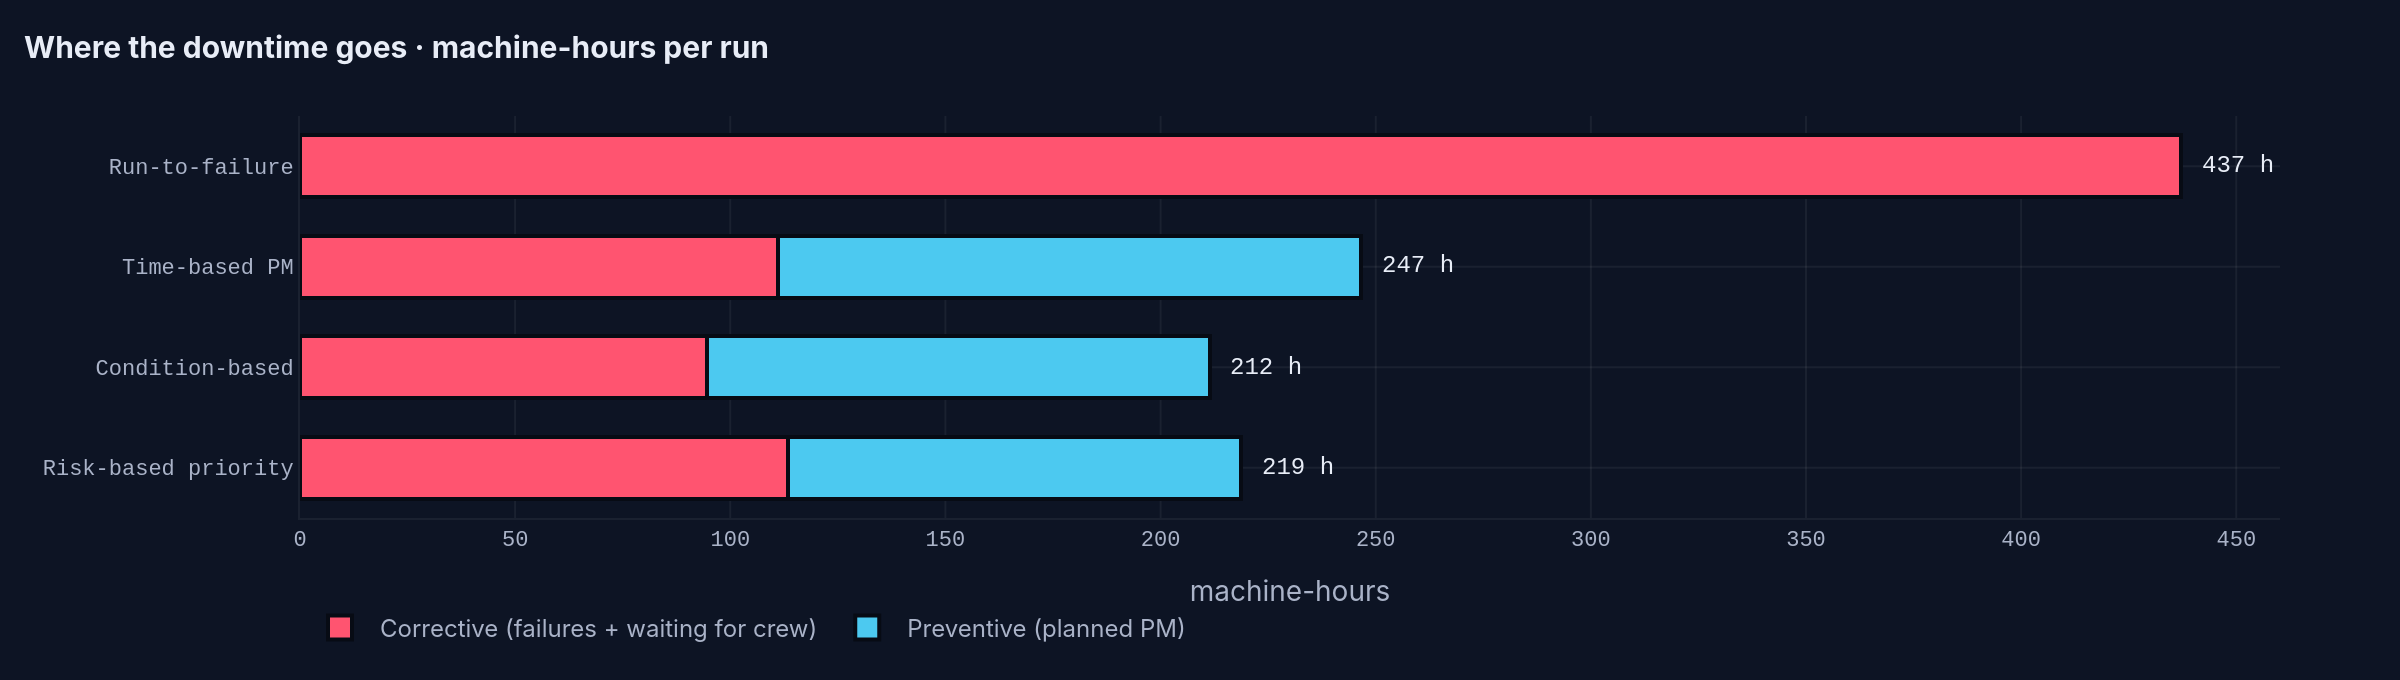
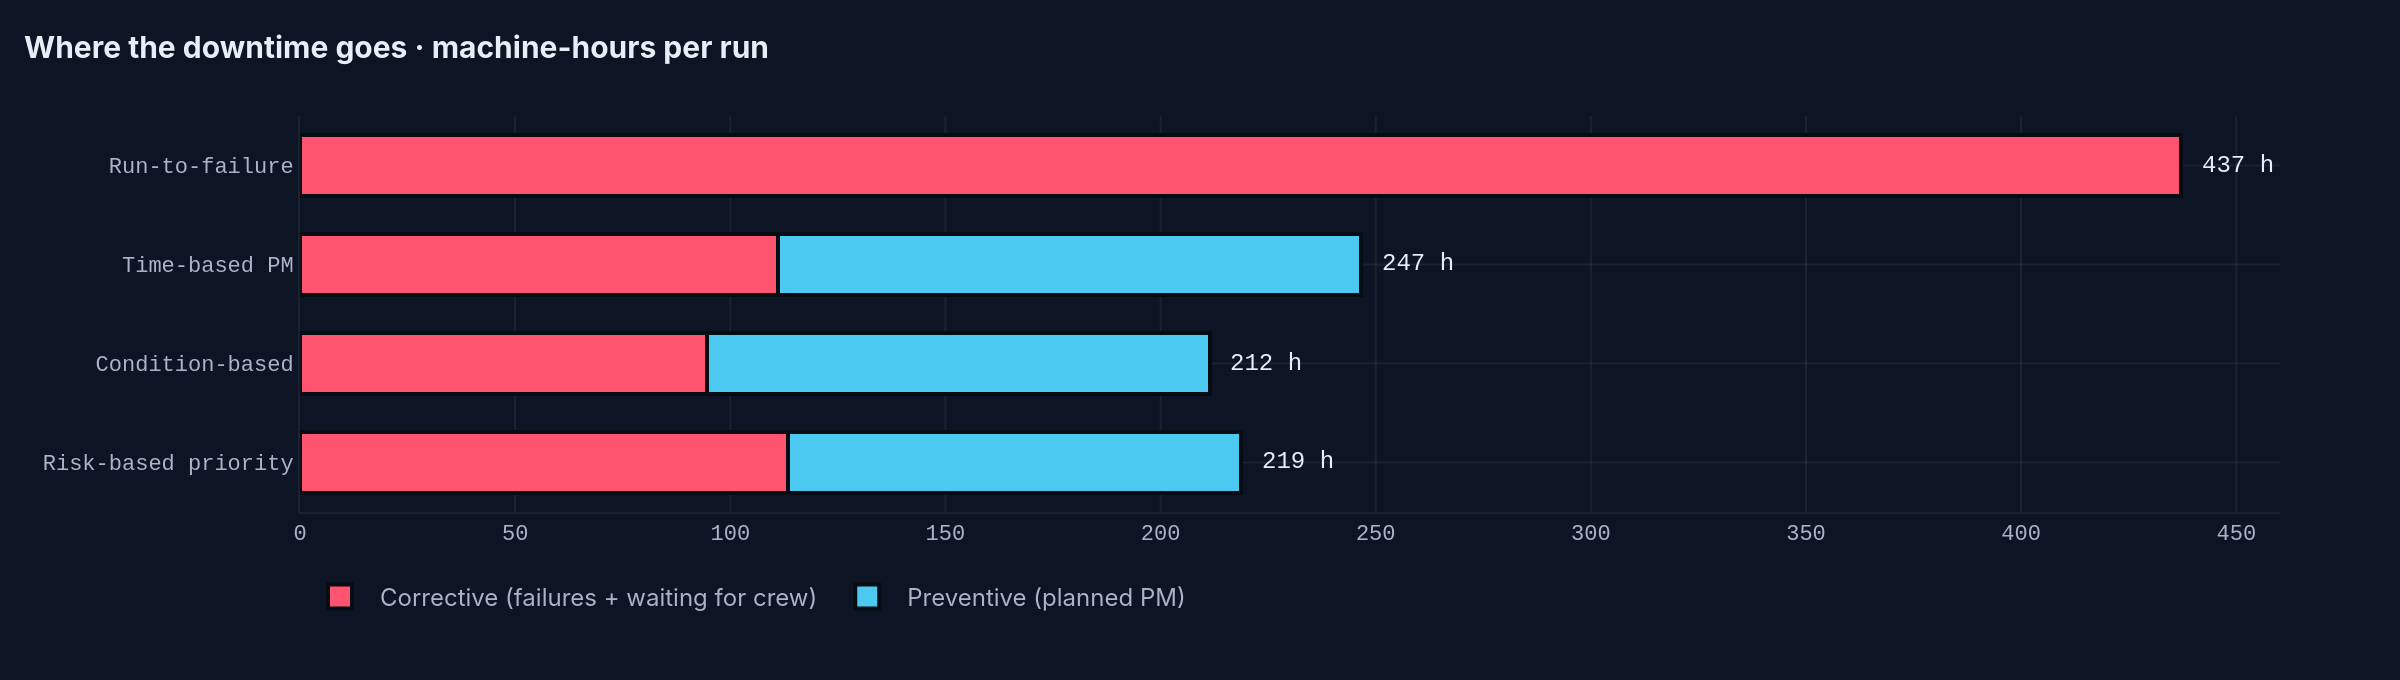
Fix UI issues found in a real browser
- remove "undefined" title on untitled charts (plotly.js renders None)
- put bar value labels inside the bars so CI whiskers no longer cover them
- downtime chart: move legend clear of the axis
- PM allocation chart: legend between title and plot
- KPI cards: word values use the sans font and only wrap between words;
  numbers never break mid-value on narrow screens

diff --git a/charts.py b/charts.py
@@ -35,7 +35,7 @@ def base_layout(height: int, title: str | None = None, **over) -> dict:
         font=dict(family=FONT, color=TEXT_SOFT, size=12),
         margin=dict(l=64, r=28, t=58 if title else 24, b=52),
         hoverlabel=dict(bgcolor=SURFACE, bordercolor=MINT, font=dict(family=MONO, size=12, color=TEXT)),
-        title=dict(text=f"<b>{title}</b>" if title else None, x=0.01, xanchor="left",
+        title=dict(text=f"<b>{title}</b>" if title else "", x=0.01, xanchor="left",
                    font=dict(size=15, color=TEXT, family=FONT)),
         xaxis=dict(gridcolor=GRID, zeroline=False, linecolor=GRID, tickfont=dict(size=11, family=MONO),
                    title=dict(font=dict(size=12, color=MUTED))),
@@ -60,8 +60,8 @@ def policy_bars(summary: pd.DataFrame, kpi: str, title: str, unit: str = "", fmt
     fig = go.Figure(go.Bar(
         x=names, y=d[kpi], marker=dict(color=[POLICY_COLORS[p] for p in d["policy"]], line=dict(color=BG, width=2)),
         error_y=dict(type="data", array=ci, color=TEXT_SOFT, thickness=1.4, width=6),
-        text=[f"{v:{fmt}}" for v in d[kpi]], textposition="outside", cliponaxis=False,
-        textfont=dict(family=MONO, size=12, color=TEXT),
+        text=[f"{v:{fmt}}" for v in d[kpi]], textposition="inside", insidetextanchor="end",
+        textfont=dict(family=MONO, size=13, color=BG), textangle=0,
         customdata=ci, hovertemplate="%{x}<br>%{y:" + fmt + "} ± %{customdata:" + fmt + "} " + unit + "<extra></extra>"))
     top = float((d[kpi] + ci).max())
     fig.update_layout(**base_layout(height, title, bargap=0.42,
@@ -80,8 +80,8 @@ def policy_overview(summary: pd.DataFrame, height: int = 420) -> go.Figure:
         fig.add_trace(go.Bar(
             x=names, y=d[kpi], marker=dict(color=[POLICY_COLORS[p] for p in d["policy"]], line=dict(color=BG, width=2)),
             error_y=dict(type="data", array=ci, color=TEXT_SOFT, thickness=1.4, width=6),
-            text=[f"{v:{fmt}}" for v in d[kpi]], textposition="outside", cliponaxis=False,
-            textfont=dict(family=MONO, size=12, color=TEXT),
+            text=[f"{v:{fmt}}" for v in d[kpi]], textposition="inside", insidetextanchor="end",
+            textfont=dict(family=MONO, size=13, color=BG), textangle=0,
             hovertemplate="%{x}<br>%{y:" + fmt + "}<extra></extra>"), row=1, col=col)
         fig.update_yaxes(range=[0, float((d[kpi] + ci).max()) * 1.2], row=1, col=col)
     fig.update_layout(**base_layout(height, None, bargap=0.38, margin=dict(t=48)))
@@ -105,9 +105,9 @@ def downtime_split(summary: pd.DataFrame, height: int = 340) -> go.Figure:
         fig.add_annotation(x=cm + pm, y=name, text=f"{cm + pm:.0f} h", showarrow=False, xanchor="left", xshift=8,
                            font=dict(family=MONO, size=12, color=TEXT))
     fig.update_layout(**base_layout(height, "Where the downtime goes · machine-hours per run", barmode="stack",
-                                    bargap=0.38, showlegend=True, margin=dict(l=150, r=60),
-                                    legend=dict(orientation="h", y=-0.2, x=0, traceorder="normal", font=dict(size=12, color=TEXT_SOFT)),
-                                    xaxis=dict(title=dict(text="machine-hours"))))
+                                    bargap=0.38, showlegend=True, margin=dict(l=150, r=60, b=84),
+                                    legend=dict(orientation="h", y=-0.14, yanchor="top", x=0, traceorder="normal",
+                                                font=dict(size=12, color=TEXT_SOFT))))
     return fig
 
 
@@ -227,7 +227,8 @@ def pm_allocation(mt: pd.DataFrame, height: int = 330) -> go.Figure:
                              hovertemplate=POLICY_NAMES[p] + " · %{x}<br>%{y:.1f} PMs per run<extra></extra>"))
     fig.update_layout(**base_layout(height, "Where the PM effort goes · PMs per machine", barmode="group",
                                     bargap=0.3, bargroupgap=0.08, showlegend=True,
-                                    legend=dict(orientation="h", y=1.12, x=1, xanchor="right", font=dict(size=12, color=TEXT_SOFT)),
-                                    yaxis=dict(title=dict(text="PMs per 60-day run"))))
+                                    legend=dict(orientation="h", y=1.0, yanchor="bottom", x=0, xanchor="left",
+                                                font=dict(size=12, color=TEXT_SOFT)),
+                                    margin=dict(t=92), yaxis=dict(title=dict(text="PMs per 60-day run"))))
     return fig
 

diff --git a/ui.py b/ui.py
@@ -96,6 +96,9 @@ section[data-testid="stSidebar"] label, section[data-testid="stSidebar"] p { col
 .kpi-label { font-size: 11px; font-weight: 600; letter-spacing: 0.14em; text-transform: uppercase; color: var(--muted); }
 .kpi-value { font-family: var(--mono); font-variant-numeric: tabular-nums; font-size: 1.95rem; font-weight: 700;
   color: var(--text); margin: 7px 0 3px; letter-spacing: -0.02em; line-height: 1.1; }
+.kpi-value.num { white-space: nowrap; font-size: clamp(1.25rem, 2.1vw, 1.95rem); }
+.kpi-value.txt { font-family: 'Inter', sans-serif; font-size: clamp(1.05rem, 1.6vw, 1.5rem); letter-spacing: -0.01em;
+  word-break: normal; overflow-wrap: normal; hyphens: none; }
 .kpi-value small { font-size: 0.95rem; color: var(--soft); font-weight: 500; margin-left: 3px; }
 .kpi-sub { font-size: 12.5px; color: var(--soft); }
 
@@ -199,10 +202,12 @@ def section(label: str, title: str, sub: str = "") -> None:
                 unsafe_allow_html=True)
 
 
-def kpi(label: str, value: str, sub: str = "", tone: str = "mint", unit: str = "") -> str:
+def kpi(label: str, value: str, sub: str = "", tone: str = "mint", unit: str = "", text: bool = False) -> str:
+    """KPI card. text=True for a word value (e.g. a policy name): sans font, wraps between words only."""
     u = f"<small>{unit}</small>" if unit else ""
+    cls = "txt" if text else "num"
     return (f'<div class="kpi" style="--c:{_c(tone)}"><div class="kpi-label">{label}</div>'
-            f'<div class="kpi-value">{value}{u}</div><div class="kpi-sub">{sub or "&nbsp;"}</div></div>')
+            f'<div class="kpi-value {cls}">{value}{u}</div><div class="kpi-sub">{sub or "&nbsp;"}</div></div>')
 
 
 def show(html: str) -> None:

diff --git a/app.py b/app.py
@@ -105,7 +105,7 @@ with tab_cmp:
     rtf = s.loc["RTF"]
     b = s.loc[best]
     c1, c2, c3, c4 = st.columns(4)
-    html(ui.kpi("Lowest cost per part", POLICY_NAMES[best], f"{b['cost_per_part']:.2f} vs {rtf['cost_per_part']:.2f} run-to-failure", "mint"), c1)
+    html(ui.kpi("Lowest cost per part", POLICY_NAMES[best], f"{b['cost_per_part']:.2f} vs {rtf['cost_per_part']:.2f} run-to-failure", "mint", text=True), c1)
     html(ui.kpi("Throughput", f"{b['throughput_per_h']:.2f}", f"good parts/h · {(b['throughput_per_h'] / rtf['throughput_per_h'] - 1) * 100:+.1f}% vs RTF",
                 "cyan", unit="/h"), c2)
     html(ui.kpi("Failures per run", f"{b['failures']:.0f}", f"vs {rtf['failures']:.0f} with run-to-failure", "violet"), c3)
